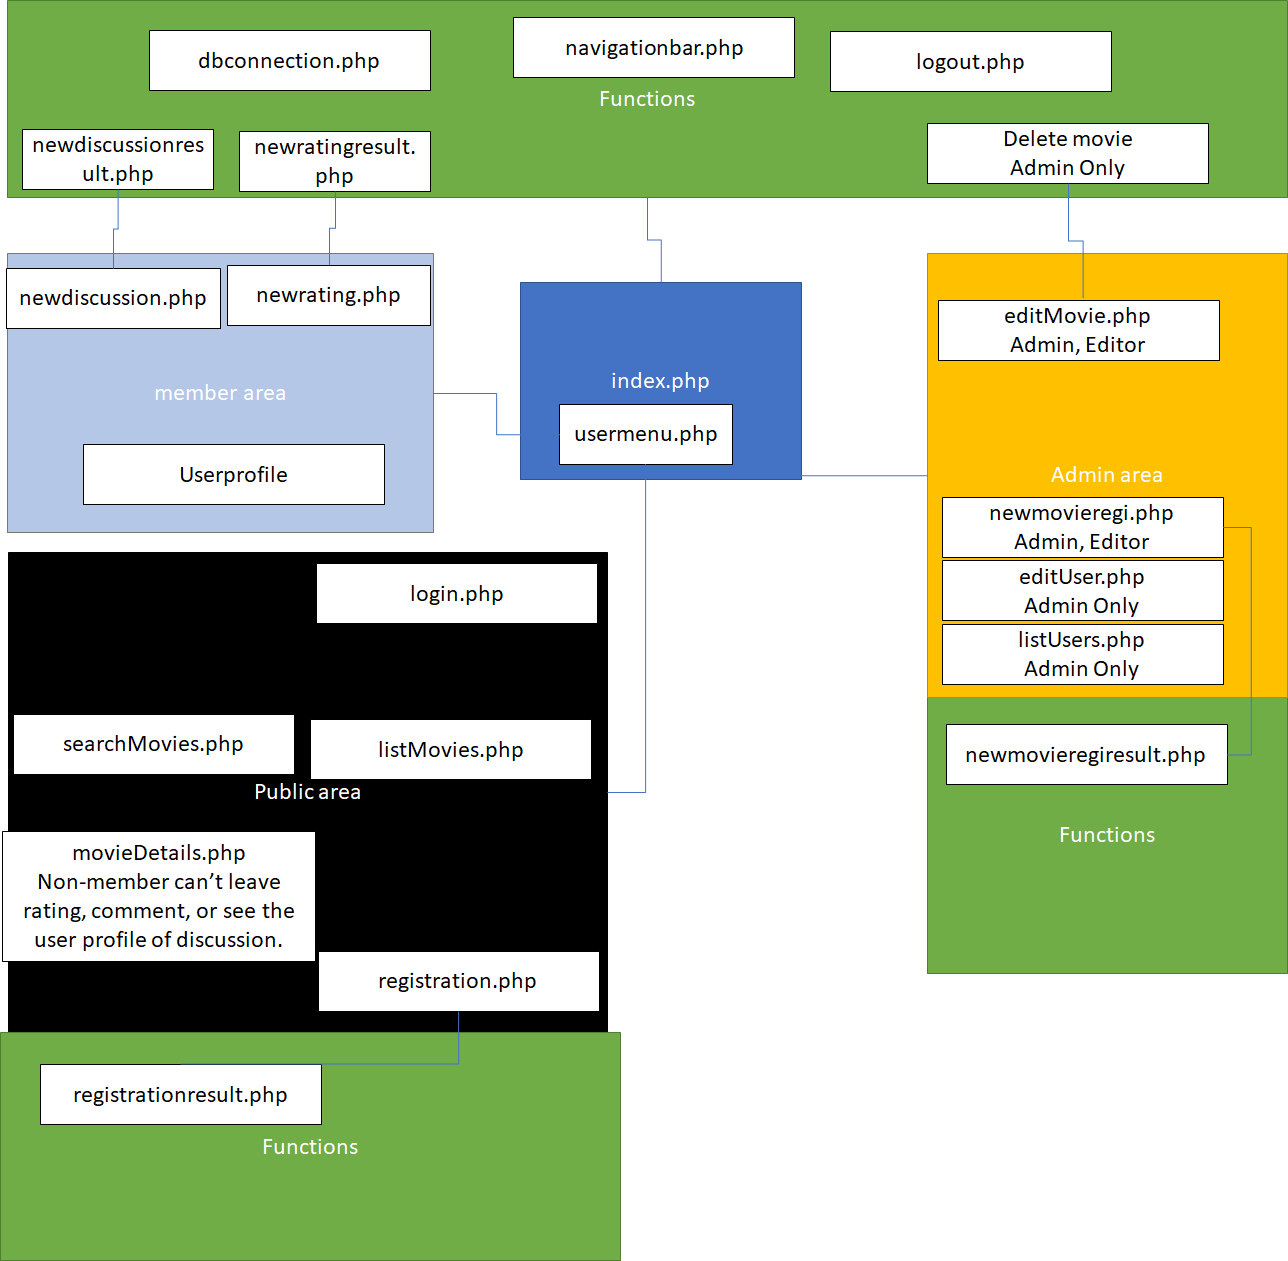
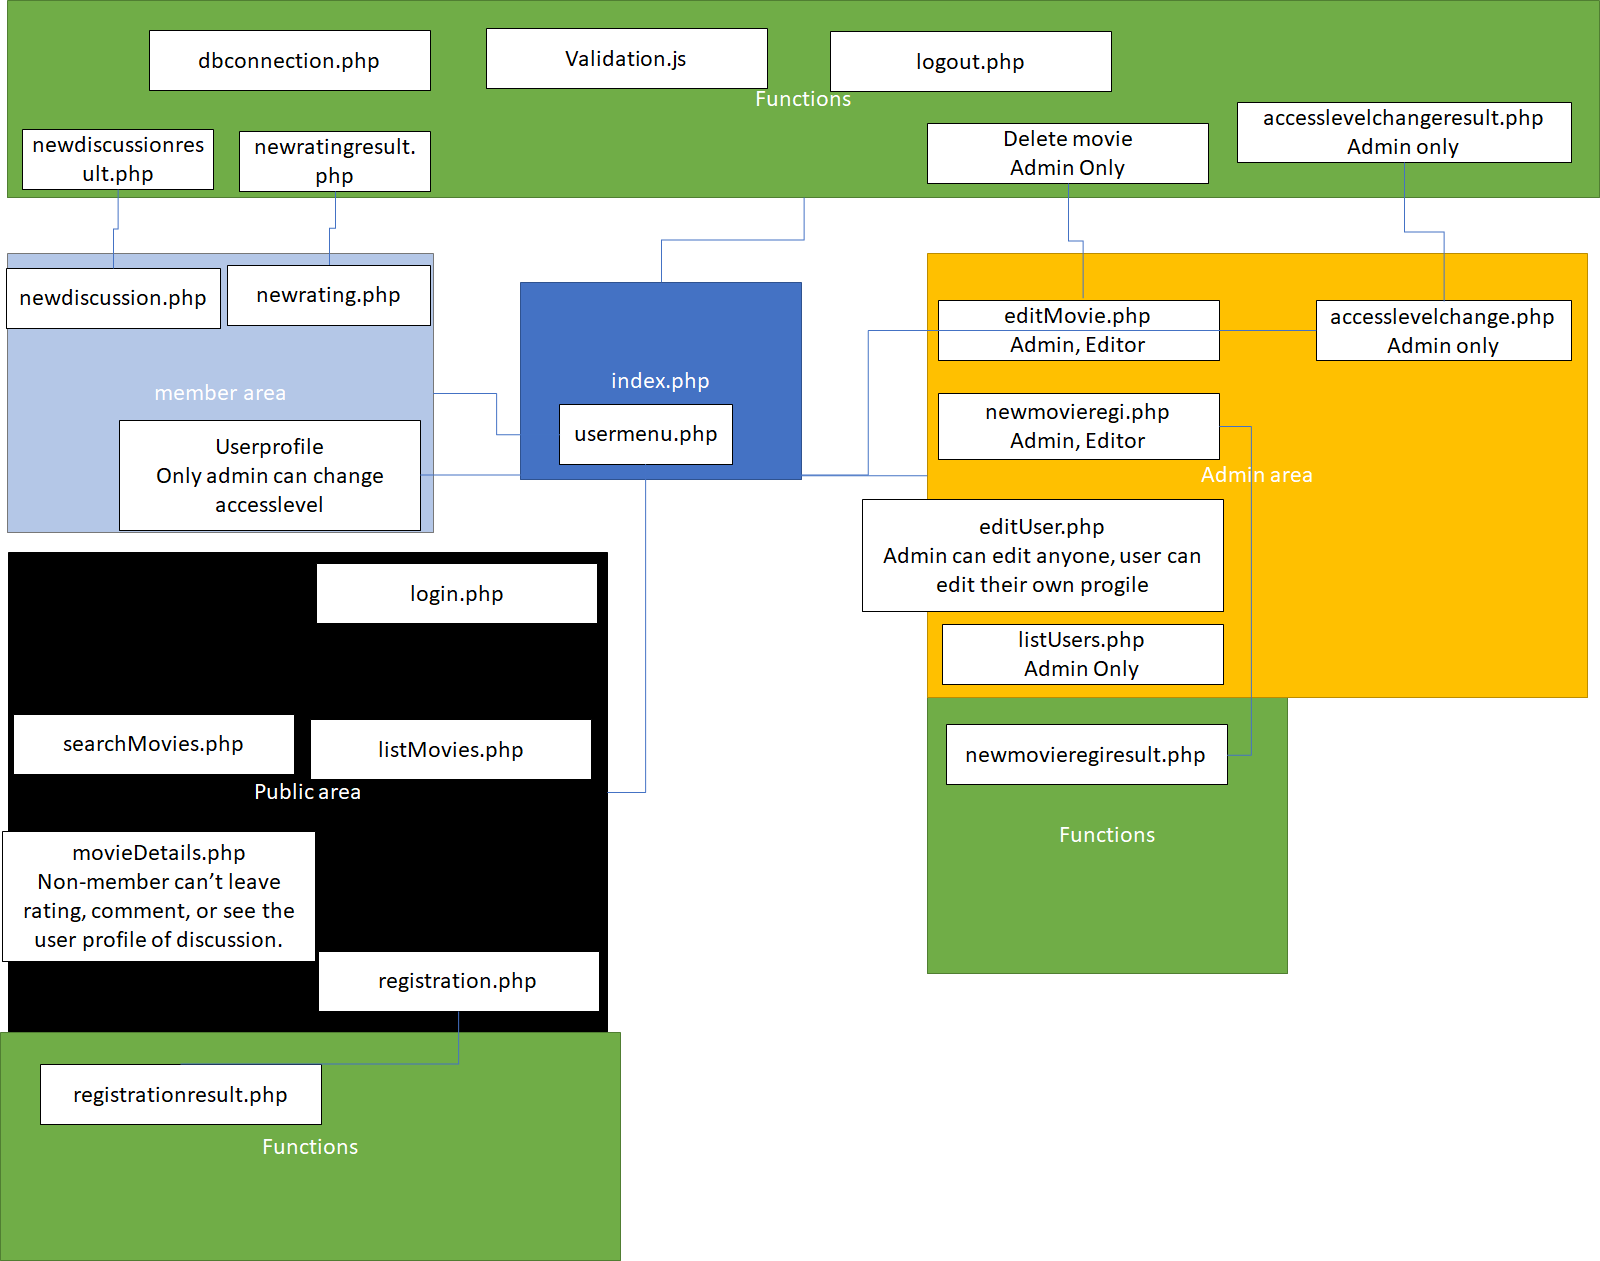
accesslevelchange.php with validation, updated diagram

Changed region(s): [[0.0, 0.1856, 1.0, 1.0], [0.0, 0.0, 0.9938, 0.1856], [0.0, 0.8351, 0.2795, 0.9278]]

diff --git a/js/validation.js b/js/validation.js
@@ -132,3 +132,15 @@ function ValidateMovieForm()
 
 	return true;
 }
+
+// Validate php/newmovierigi.php form
+function ValidateaccesslevelForm()
+{
+	if (document.accesslevelchange.accesslevel.value == '')
+	{
+		alert('accesslevel field cannot be blank.');
+	document.MovieForm.accesslevel.focus();
+	return false;
+	}
+
+}

diff --git a/php/accesslevelchangeresult.php b/php/accesslevelchangeresult.php
@@ -1,0 +1,100 @@
+
+<?php require '../func/dbconnection.php';
+//Start or resume a session
+if (session_status() == PHP_SESSION_NONE) {
+  session_start();
+}
+
+if (!( $_SESSION['level'] == 'admin'))
+{
+header('Location: ../index.php');
+exit;
+}
+?>
+<!DOCTYPE html>
+<html>
+<head>
+  <title>access level change Results</title>
+</head>
+
+<body>
+<?php
+	//create short variable names from the data received from the form
+	$accesslevel = $_POST['accesslevel'];
+  
+  // we create this variable and set it to an empty string... if it remains empty by the end
+  // of our validation code, then there was no error found
+  $error_message = '';
+
+  // first we'll check if any of our required fields are empty all at once
+  if (empty($accesslevel))
+  {
+    $error_message = 'access level was blank.';
+  }
+
+
+
+    
+// now we'll check if the username already exists in the database
+$howmanyadmin_query = "SELECT * FROM users WHERE access_level = 'admin'";
+$howmanyadmin_results = mysqli_query($connection,$howmanyadmin_query);
+
+
+
+if ($howmanyadmin_results->num_rows < 2 && $_POST['accesslevel'] != 'admin' && $_SESSION['uname'] == $_SESSION['userdetail'])
+{
+    $error_message = 'Less than 2 admin user exist. You need to have at least 1 admin user';
+}
+
+
+
+  // if the error_message variable is not empty (i.e. an error has been found)
+  if ($error_message != '')
+  {
+    // we'll just provide the user with the error message and a back link if there is an error
+    // the exit command tells the server/PHP to stop processing the script at that point
+    echo 'Error: '.$error_message.' <a href="javascript: history.back();">Go Back</a>.';
+    echo '</body></html>';
+    exit;
+  }
+  else
+  {
+    //  if there was no error, show success message
+    // (and them the script continues to the HTML section that displays the results)
+    echo '<p><strong>Form submitted sucessfully!</strong></p>';
+
+    $query = "UPDATE users SET access_level = '".$_POST['accesslevel']."' WHERE username = '".$_SESSION['userdetail']."'";
+
+
+
+
+
+
+
+
+  $result = mysqli_query($connection, $query);
+
+  if ($result)
+	{
+    echo '<p>Movie details inserted into database!</p>';
+
+    if($_SESSION['uname'] == $_SESSION['userdetail'] && $_POST['accesslevel'] != 'admin')
+    {
+        $_SESSION['level'] = $_POST['accesslevel'];
+    }
+
+    header('Location: userDetails.php?username='.$_SESSION['userdetail']);
+
+	}
+	else
+	{
+		echo '<p>Error inserting details. Error message:</p>';
+    echo mysqli_error($connection); 
+
+  }
+  }
+?>
+
+
+</body>
+</html>

diff --git a/php/accesslevelchange.php b/php/accesslevelchange.php
@@ -1,0 +1,69 @@
+<?php
+//Start or resume a session
+if (session_status() == PHP_SESSION_NONE) {
+  session_start();
+}
+// db connection
+if (!DBHOST)
+{
+  require '../func/dbconnection.php';
+}
+
+  if (!( $_SESSION['level'] == 'admin'))
+    {
+    header('Location: ../index.php');
+    exit;
+    }
+
+    ?>
+
+<!DOCTYPE html>
+<html>
+<head>
+	<link rel="stylesheet" type="text/javascript" href="../js/validation.js">
+</head>
+
+<body>
+<h3><strong>Access level changing</strong></h3>
+<form name="accesslevelchange" method="post" action="accesslevelchangeresult.php" onsubmit="return ValidateaccesslevelForm();">
+ <input name="username" type="hidden" value="<?php echo $_SESSION['userdetail'];  ?>" />
+  <table style="width: 500px; border: 0px;" cellspacing="1" cellpadding="1">
+  <tr>
+      <td colspan="2"><strong>Access level changing</strong></td>
+    </tr>
+  <tr style="background-color: #FFFFFF;"> 
+      <td>Access level</td>
+      <td>         
+        <select name="accesslevel" style="width: 200px;" required>
+            <option value="admin">Admin</option>
+            <option value="moderator">Moderator</option>
+            <option value="member">Member</option>    
+        </select>
+        
+        </td>
+    </tr>
+    
+    <tr style="background-color: #FFFFFF;"> 
+      <td colspan=2> 
+		<input type="submit" name="submit" value="Submit"
+
+
+    <?php
+  if($_SESSION['uname'] == $_SESSION['userdetail'])
+  {
+    echo 'onclick="return confirm(\'If you change to non-admin user, you will lost your admin access. Would you proceed?\');"';
+  }
+
+
+
+    ?>
+    
+    
+    /></td>
+    </tr>
+  </table>
+</form>
+</body>
+</html>
+
+

diff --git a/php/userDetails.php b/php/userDetails.php
@@ -77,6 +77,19 @@ require '../func/dbconnection.php';
 }
 
   ?>
+
+  <?php
+    if ( $_SESSION['level'] == 'admin' )
+    {
+
+      $_SESSION['userdetail'] = $_GET['username'];
+
+      echo '</br>';
+      require 'accesslevelchange.php';
+    
+    
+    }
+  ?>
   </div>
   </body>
 </html>
